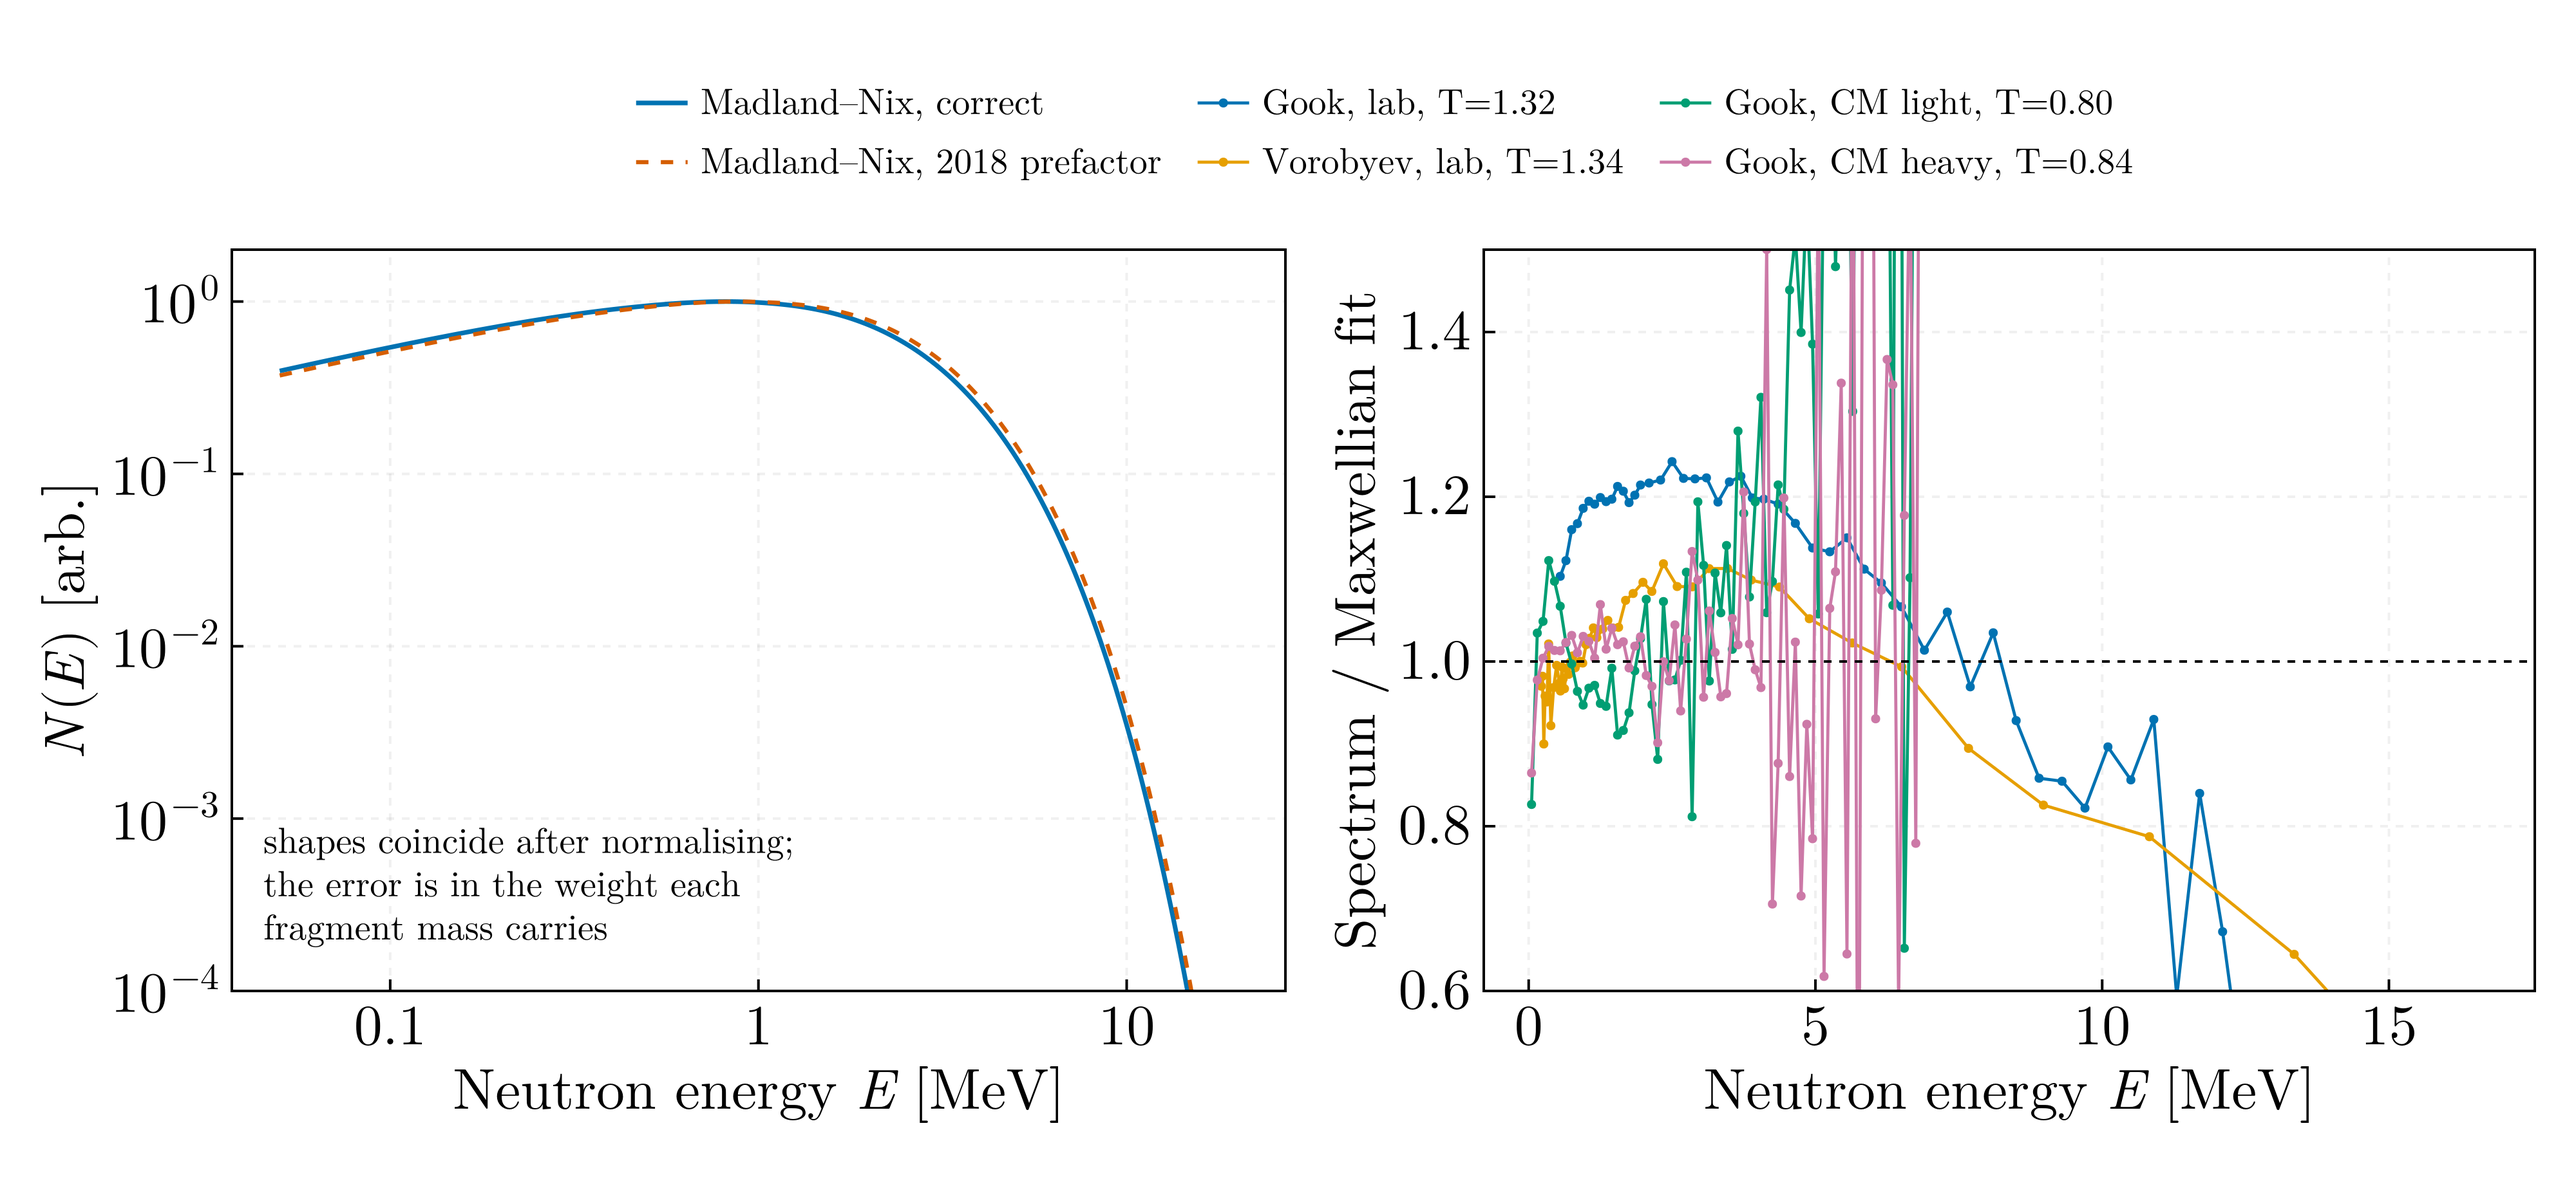
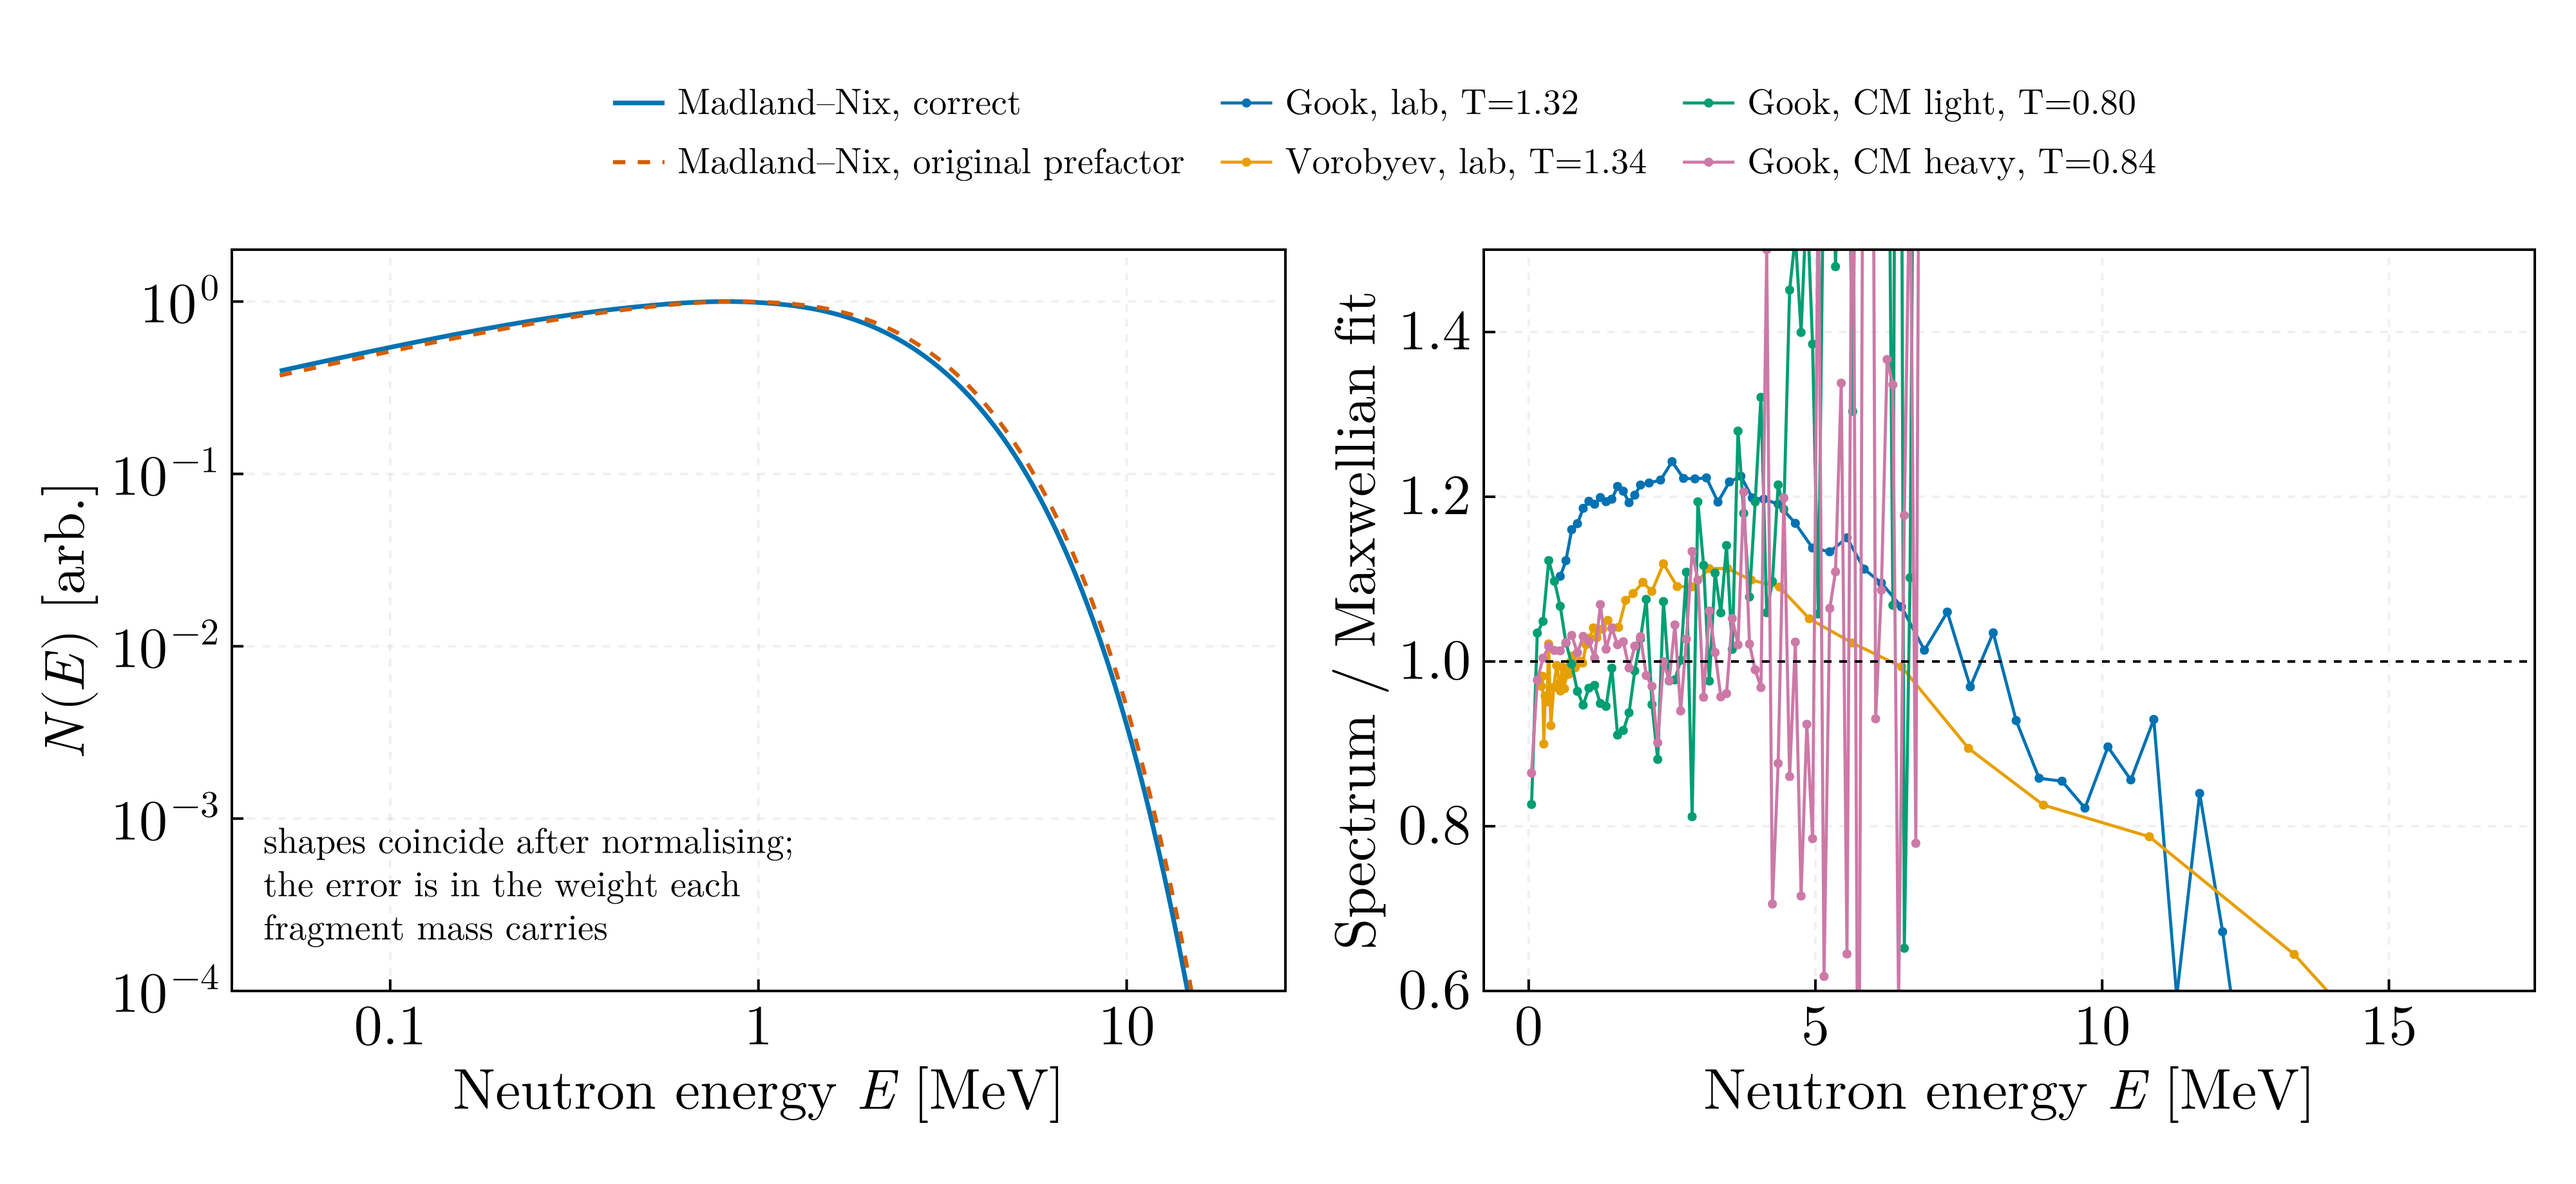
docs: correct the year attributed to each module
"2018" had been used throughout as a generic label for "the original",
including inside MSc modules that cannot predate 2021 and in the
aircraft-hazard screening, which is later still. 69 occurrences were wrong.

Provenance is taken from the archive folder names, which record the year of
study — Old_2018/, *_L_4, *_M_1, *_M_2 — read against the degree structure:
the BSc is Engineering Physics, four years and 240 ECTS (2017-2021), so L_4 is
the 2020-2021 academic year, and the MSc runs 2021-2023. Every module header
and the file tree now state the year of study and the calendar years.

Where a folder carries no year marker, bsc/04 and bsc/05, the text says the
year is not recorded rather than inventing one, and identifiers named after a
year (rk4_step_2018, N_2018, lambda_2018) are renamed for what they are.
Genuine 2018 provenance in bsc/01-03 and the Planck 2018 citations stand.

All 37 scripts run; figures regenerated where a legend carried a year.

diff --git a/README.md b/README.md
@@ -17,23 +17,29 @@ that run, say what they compute, and check themselves against something.
 ├── activate.jl                     activates and instantiates it
 ├── theme.jl                        shared figure style and colourblind-safe palette
 ├── bsc/
-│   ├── 01-oscillators-and-integrators/   2018, from C++
-│   ├── 02-chaos-and-attractors/          2018, from C++ and Octave
-│   ├── 03-ising-and-compton/             2018, from C++
-│   ├── 04-numerical-methods/             from Octave
-│   ├── 05-geometrical-optics/            from Octave and Origin lab data
-│   ├── 06-cosmology/                     2019, JINR Dubna (LIT)
-│   ├── 07-numerical-methods-ii/          2021
-│   ├── 08-bayesian-statistics/           2021
-│   └── 09-remote-sensing-doas/           2021
+│   ├── 01-oscillators-and-integrators/   year 1, 2017–2018, from C++
+│   ├── 02-chaos-and-attractors/          year 1, 2017–2018, from C++ and Octave
+│   ├── 03-ising-and-compton/             year 1, 2017–2018, from C++
+│   ├── 04-numerical-methods/             year not recorded, from Octave
+│   ├── 05-geometrical-optics/            year not recorded, Octave and Origin lab data
+│   ├── 06-cosmology/                     July 2019, JINR Dubna (LIT)
+│   ├── 07-numerical-methods-ii/          year 4, 2020–2021
+│   ├── 08-bayesian-statistics/           year 4, 2020–2021
+│   └── 09-remote-sensing-doas/           year 4, 2020–2021
 └── msc/
-    ├── 01-radiation-matter-interaction/
-    ├── 02-experimental-methods/
-    ├── 03-radionuclides/
-    ├── 04-fission-observables/
-    ├── 05-nuclear-particle-physics/
-    └── 06-aircraft-hazard-screening/     RATEN–CITON internship
+    ├── 01-radiation-matter-interaction/  year 1, 2021–2022
+    ├── 02-experimental-methods/          year 1, 2021–2022
+    ├── 03-radionuclides/                 year 1, 2021–2022
+    ├── 04-fission-observables/           year 2, 2022–2023
+    ├── 05-nuclear-particle-physics/      year 2, 2022–2023
+    └── 06-aircraft-hazard-screening/     late 2023, not a course assignment
 ```
+
+The BSc is Engineering Physics, four years and 240 ECTS, so BSc year 4 is the
+2020–2021 academic year and the MSc runs 2021–2023. Years come from the archive
+folder names, which carry the year of study (`Old_2018`, `…_L_4`, `…_M_1`,
+`…_M_2`); the two modules whose folders carry no marker say so rather than
+guess.
 
 Each directory has its own README with the figures, the results, and what was
 wrong with the original.
@@ -52,11 +58,12 @@ happened. Several subjects span that ordering, so they are indexed here too.
 | **Nuclear structure and reactions** | `msc/01` (radiation–matter), `msc/03` (masses, separation, pairing), `msc/04` (fission observables) |
 | **Radiological assessment** | `bsc/09` (DOAS retrieval), `msc/06` (external-hazard screening), and [AtmosphericDispersion.jl](https://github.com/PaulGoG/AtmosphericDispersion.jl) |
 
-The numerical-methods pair, `bsc/04` and `bsc/07`, is one course taught twice —
-the first in Octave in the third year, the second in Mathematica and Octave in
-the fourth. They are kept apart because the degree-then-date ordering puts them
-apart, and because what they show is different: `04` is about the schemes
-themselves, `07` about what happens when a problem is ill-posed.
+The numerical-methods pair, `bsc/04` and `bsc/07`, is one course taught twice:
+the first in Octave, the second in Mathematica and Octave in the fourth year.
+Only the second is dated — its archive folder is marked `L_4` — so the first is
+placed before it by the course numbering alone. They are kept apart because what
+they show is different: `04` is about the schemes themselves, `07` about what
+happens when a problem is ill-posed.
 
 ## Running it
 
@@ -93,7 +100,7 @@ changed results:
 And one that is a property of the problem rather than the code:
 `ODE_RK4.jl` states the initial-value problem `y' = √|sin y|, y(0) = 0`, which is
 **not well posed** — √|sin y| is not Lipschitz at the origin, so uniqueness
-fails. A perturbation of 10⁻¹² changes y(100) from 0 to 59.7. The 2018 file set
+fails. A perturbation of 10⁻¹² changes y(100) from 0 to 59.7. The 2021 file set
 `y[1] = 1`, contradicting its own comment.
 
 ## Some results

diff --git a/msc/06-aircraft-hazard-screening/README.md b/msc/06-aircraft-hazard-screening/README.md
@@ -1,4 +1,4 @@
-# Aircraft crash hazard screening
+# Aircraft crash hazard screening — late 2023
 
 ![Impact frequency](figures/aircraft_crash_frequency.png)
 
@@ -8,17 +8,15 @@ design-basis thresholds.
 
 ## Provenance
 
-**This was not a course assignment.** The internship report for the RATEN–CITON
-placement of September 2021 – February 2022 (coordinator Ing. Doina Eugenia
-Pantazi, academic supervisor Prof. Alexandru Jipa) lists among the work
-completed a deliberately pedagogical Poisson risk model — *"studiul statistic al
-riscului prăbușirii unei aeronave de pasageri asupra unui amplasament nuclear
-folosind distribuții Poisson"*. It was written at CITON, not for a class.
+**This was not a course assignment.** It is a deliberately pedagogical Poisson
+risk model — *"studiul statistic al riscului prăbușirii unei aeronave de
+pasageri asupra unui amplasament nuclear folosind distribuții Poisson"* — written
+in late 2023 as professional rather than academic work.
 
 The quantity computed is therefore a Poisson rate: the probability of at least
 one impact in t years is 1 − e^{−Ft}, which for these frequencies is
 indistinguishable from F·t. The values of N, P, g and y₀ are not recorded in
-anything that survives, so they stand as the 2018 file set them, and the
+anything that survives, so they stand as the original file set them, and the
 absolute frequency is an exercise rather than a screening result for a real
 site.
 
@@ -26,7 +24,7 @@ site.
 
 The structure below is that of DOE-STD-3014 and NUREG-0800 §3.5.1.6, which is
 how a calculation of this shape is normally presented. The original cited
-neither; the framing is this rewrite's, not the 2018 author's.
+neither; the framing is this rewrite's, not the original author's.
 
 ```
 F = N · P · ∫ f(s(x)) dx · A_eff            [yr⁻¹]
@@ -62,7 +60,7 @@ a site radius of 135 m and the 10⁻⁵ threshold to 1349 m.
 
 ## What was wrong
 
-The 2018 file computed two estimators,
+The original file computed two estimators,
 
 ```julia
 integrandRadial          = (x/s) e^{-gs}

diff --git a/bsc/04-numerical-methods/README.md b/bsc/04-numerical-methods/README.md
@@ -1,4 +1,4 @@
-# Numerical methods
+# Numerical methods — BSc, year not recorded
 
 Octave coursework on multistep methods, Runge–Kutta, and the pendulum. Ported to
 Julia. Every script here is checked against a closed-form solution, which none of
@@ -22,7 +22,7 @@ the true global error across the whole interval.
 
 ![Pendulum integrators](figures/pendulum_integrators.png)
 
-**The 2018 "RK4" was first-order.** For the coupled system `θ̇ = ω`,
+**The original "RK4" was first-order.** For the coupled system `θ̇ = ω`,
 `ω̇ = F(θ, ω, t)`, the θ-stage increments must use the θ-slopes. The original
 wrote
 
@@ -39,7 +39,7 @@ against a fine reference:
 | Stage coupling | Observed order |
 |---|---|
 | Correct RK4 | **3.83** |
-| As written in 2018 | **1.01** |
+| As written originally | **1.01** |
 
 The middle panel contrasts the full pendulum `θ̈ = -(g/L) sin θ` with the
 small-angle approximation from θ₀ = 2.5 rad — they diverge by up to 4.9 rad,
@@ -50,7 +50,7 @@ g/L = 1 of the Poincaré panel. `Pendul_simplu.m` is headed
 
 The right panel is the Poincaré section of the driven damped pendulum at
 Giordano's chaotic parameters (q = 0.5, F_D = 1.2, Ω_D = 2/3), sampled once per
-drive period after discarding the transient. The 2018 files plotted the wrapped
+drive period after discarding the transient. The original files plotted the wrapped
 angle against time and never took a section, which is what this parameter set
 exists for.
 

diff --git a/bsc/05-geometrical-optics/README.md b/bsc/05-geometrical-optics/README.md
@@ -1,4 +1,4 @@
-# Geometrical optics
+# Geometrical optics — BSc, year not recorded
 
 Paraxial lens design and prism dispersion, ported from Octave and from measured
 laboratory data.
@@ -44,7 +44,7 @@ Corrections to the originals:
   object at the front focal plane sends the image to infinity — but never
   guarded it. `conjugate` returns `Inf` explicitly here.
 
-Both remain strictly paraxial, as in 2018: no real ray trace, no aberrations,
+Both remain strictly paraxial, as in the original: no real ray trace, no aberrations,
 and a single refractive index per glass. That last point is the real limitation,
 because the cemented doublet in the Tessar and the cemented doublet and triplet
 in the Erfle exist precisely to achromatise, and without dispersion data that
@@ -59,7 +59,7 @@ Refractive index against wavelength for a prism, measured by minimum deviation
 on a goniometer: six lines from 4050 to 6700 Å, with both goniometer readings,
 the minimum deviation and the index the student derived. The data come from the
 first- and second-year Origin lab project `PrismaOptica.opj`; **there was no
-companion code — this analysis did not exist in 2018.**
+companion code — this analysis did not exist in the original.**
 
 It is written now because `msc/02-experimental-methods/hg_spectroscope_calibration.jl`
 has to *assume* that a spectroscope's drum reading is linear in refractive

diff --git a/msc/01-radiation-matter-interaction/README.md b/msc/01-radiation-matter-interaction/README.md
@@ -1,4 +1,4 @@
-# Interaction of radiation with matter — MSc year 1
+# Interaction of radiation with matter — MSc year 1 (2021–2022)
 
 ## `bethe_bloch_stopping_power.jl`
 
@@ -13,7 +13,7 @@ sub-0.5 MeV portion, where the Bethe logarithm turns over and the formula stops
 describing the physics — the shell and Barkas corrections it omits are no longer
 small at β = 0.052.
 
-The formula was transcribed correctly in 2018. What was missing was context: the
+The formula was transcribed correctly in the original. What was missing was context: the
 target material is named nowhere in the file, A was written as 28 rather than
 28.085, and the log argument typed the same sub-expression twice instead of
 squaring it, hiding that the second factor is W_max.
@@ -33,7 +33,7 @@ The original fitted **unweighted** while drawing error bars that therefore did
 not enter the χ², never called `stderror`, and never printed the coefficients —
 its only output was a figure.
 
-A caveat on the abscissa, labelled "x (μm)" in 2018: the fitted slope is
+A caveat on the abscissa, labelled "x (μm)" in the original: the fitted slope is
 392 keV per unit, while the tabulated electronic stopping power of Mylar near
 4 MeV is ≈150 keV/µm, and a 1.85 MeV residual after 8 µm cannot be reconciled
 with the ≈30 µm range of a 4.9 MeV α. The abscissa is more likely a foil count

diff --git a/bsc/07-numerical-methods-ii/README.md b/bsc/07-numerical-methods-ii/README.md
@@ -1,4 +1,4 @@
-# Numerical methods II — 2021
+# Numerical methods II — BSc year 4 (2020–2021)
 
 Fourth-year exam problems.
 
@@ -19,7 +19,7 @@ derivative diverges — so Picard–Lindelöf does not apply and uniqueness fail
 
 All four are legitimate solutions of the same initial-value problem. A
 perturbation of 10⁻¹² changes the answer by sixty. No numerical method can
-choose between them, and the 2018 code quietly set `y[1] = 1`, contradicting its
+choose between them, and the 2021 code quietly set `y[1] = 1`, contradicting its
 own stated initial condition and stepping around the issue.
 
 The second problem, `y' = z, z' = -y sin y`, is conservative; the invariant
@@ -40,7 +40,7 @@ together. On the periodic domain [−10, 10] they reach the boundary, meet there
 pass through one another and separate again, which is what the heatmap shows.
 
 The norm `∫|Ψ|²dx` is conserved to a relative **8 × 10⁻¹⁵** over 625 000 steps.
-That is the check the port exists for: the 2018 stages were
+That is the check the port exists for: the 2021 stages were
 
 ```julia
 k2 = Sⁿ(Ψⱼ₋₁ + dt*k1/2, Ψⱼ + dt*k1/2, Ψⱼ₊₁ + dt*k1/2, dx)

diff --git a/msc/04-fission-observables/README.md b/msc/04-fission-observables/README.md
@@ -1,4 +1,4 @@
-# Fission observables — MSc year 2
+# Fission observables — MSc year 2 (2022–2023)
 
 Neutron-induced fission of ²³⁵U at thermal energy, from the Straede
 Y(A_H, Z_H, TKE) matrix, the AME mass evaluation, Möller–Nix deformations,
@@ -139,7 +139,7 @@ prefactor carrying both cannot be absorbed into an overall normalisation:
 | | ⟨E⟩ | (2/3)⟨E⟩ |
 |---|---|---|
 | Correct prefactor | 2.1025 MeV | 1.4017 MeV |
-| 2018 prefactor | 2.2025 MeV | 1.4683 MeV |
+| Original prefactor | 2.2025 MeV | 1.4683 MeV |
 
 a **4.76 %** shift in the mean energy. Real, and in the direction that matters,
 but modest — worth stating precisely rather than left as an assertion. The

diff --git a/bsc/01-oscillators-and-integrators/README.md b/bsc/01-oscillators-and-integrators/README.md
@@ -1,4 +1,4 @@
-# Oscillators and integrators — 2018
+# Oscillators and integrators — BSc year 1 (2017–2018)
 
 First-year and second-year work, originally written in C++ and ported to Julia.
 Three programs on the harmonic oscillator and on the accuracy of the elementary

diff --git a/bsc/02-chaos-and-attractors/README.md b/bsc/02-chaos-and-attractors/README.md
@@ -1,4 +1,4 @@
-# Chaos and attractors — 2018
+# Chaos and attractors — BSc year 1 (2017–2018)
 
 The Lorenz and Rössler systems, integrated with RK4, and the measurement of
 their largest Lyapunov exponent from the divergence of neighbouring

diff --git a/bsc/06-cosmology/README.md b/bsc/06-cosmology/README.md
@@ -1,4 +1,4 @@
-# Cosmology — Dubna 2019
+# Cosmology — JINR Dubna, July 2019
 
 Joint work with [Alexandru Crăciun](https://github.com/Craciun-Alexandru),
 presented as *"Numerical simulation of homogeneous and isotropic universe given

diff --git a/bsc/03-ising-and-compton/README.md b/bsc/03-ising-and-compton/README.md
@@ -1,4 +1,4 @@
-# Ising model and Compton scattering — 2018
+# Ising model and Compton scattering — BSc year 1 (2017–2018)
 
 Two Monte Carlo programs from the second year, ported from C++ to Julia.
 
